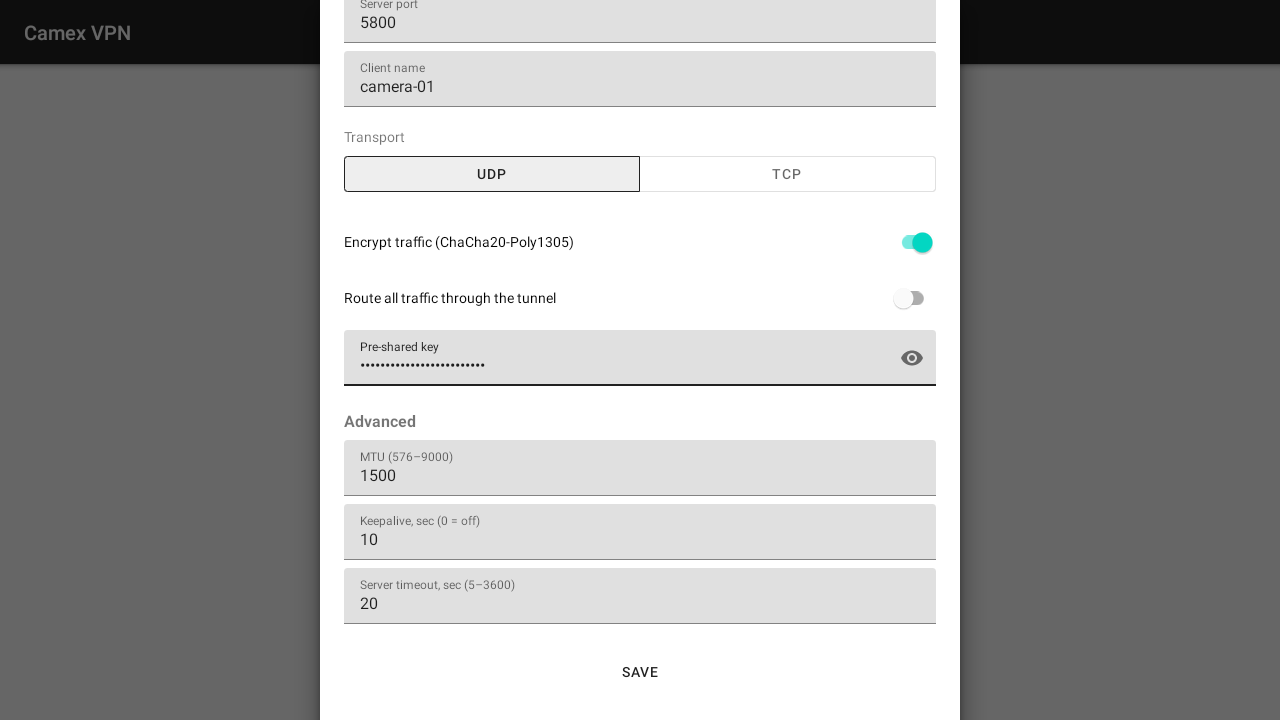
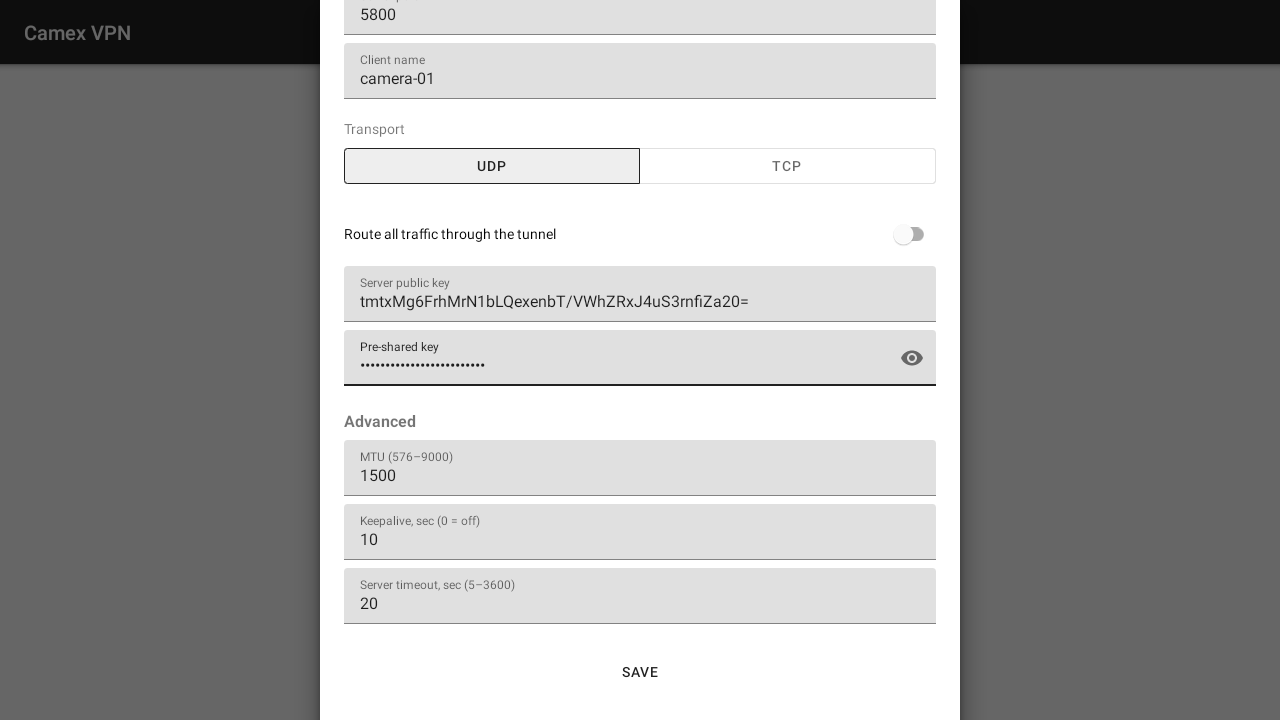
fix(v2): rekey deadline, repeated confirmation, cleanup on failed start and handshakes, no takeover by address; new Android screenshots (#17, #42)
Review fixes:
- A rekey unanswered for 90 s (V2_REKEY_TIMEOUT) makes the client
  reconnect instead of keeping the old keys.
- Until the server answers on a new session the client repeats its
  confirming keepalive every 5 s: one lost datagram no longer leaves an
  idle client on a session the server dropped.
- A failed start wipes the key texts, the derived keys, the key cache and
  the server's config (Android keeps the process).
- A UDP entry with a working session is not reused for a handshake that
  claims another address: that one gets a new entry.
- Every failure after a slot was taken for a handshake frees it.
- docs/images: settings screenshots with the server public key, from the
  #48 APK on the test TV box.

diff --git a/src/server.c b/src/server.c
@@ -725,7 +725,12 @@ static server_client_t *server_entry_for(const char *client_id,
             }
             server_adopt_tcp(by_ip, fd);
             entry = by_ip;
-        } else if (by_addr != NULL) {
+        } else if (by_addr != NULL && (fd >= 0 || !by_addr->cur.valid)) {
+            /* The same connection or address, without a working session:
+             * a client that changed its address. A UDP entry that has one
+             * is not taken over by a handshake for another address (a
+             * forged source plus a replayed message 1 could otherwise cut
+             * that client off): such a handshake gets a new entry. */
             entry = by_addr;
         } else {
             entry = server_alloc_client();
@@ -906,14 +911,9 @@ static int server_handle_init(const uint8_t *buffer, size_t len,
         }
         if (server_build_config(entry, client_id, local_ip, reply,
                                 sizeof(reply)) != 0) {
-            /* No configuration (e.g. the auto pool is full): a slot taken
-             * for this handshake must not stay behind (#15) */
-            if (fresh) {
-                crypto_wipe(entry, sizeof(*entry));
-                entry->tcp_fd = -1;
-            }
+            /* No configuration (e.g. the auto pool is full) */
             noise_wipe(&hs);
-            return -1;
+            goto fail;
         }
     } else {
         snprintf(reply, sizeof(reply), "%s OK VER=%u\n", CAMEX_CTRL_WORD,
@@ -923,12 +923,12 @@ static int server_handle_init(const uint8_t *buffer, size_t len,
     /* Message 2 */
     if (get_random_bytes(e_seed, sizeof(e_seed)) != 0) {
         noise_wipe(&hs);
-        return -1;
+        goto fail;
     }
     server_index = server_new_index();
     if (server_index == 0U) {
         noise_wipe(&hs);
-        return -1;
+        goto fail;
     }
     memcpy(resp, CAMEX_MAGIC, 4);
     resp[4] = V2_TYPE_RESP;
@@ -940,7 +940,7 @@ static int server_handle_init(const uint8_t *buffer, size_t len,
     crypto_wipe(e_seed, sizeof(e_seed));
     if (resp_len == 0U) {
         noise_wipe(&hs);
-        return -1;
+        goto fail;
     }
     noise_split(&hs, c1, c2);
     noise_wipe(&hs);
@@ -965,11 +965,11 @@ static int server_handle_init(const uint8_t *buffer, size_t len,
     if (entry->tcp_fd >= 0) {
         if (net_tcp_send_frame(entry->tcp_fd, resp,
                                V2_RESP_HDR + resp_len) < 0) {
-            return -1;
+            goto fail;
         }
     } else if (net_send_payload(net_fd, from, resp,
                                 V2_RESP_HDR + resp_len) < 0) {
-        return -1;
+        goto fail;
     }
     if (first) {
         if (auto_request) {
@@ -979,6 +979,15 @@ static int server_handle_init(const uint8_t *buffer, size_t len,
         }
     }
     return 0;
+
+fail:
+    /* A slot taken for this handshake must not stay behind (#15); entries
+     * that existed before keep their working sessions */
+    if (fresh) {
+        crypto_wipe(entry, sizeof(*entry));
+        entry->tcp_fd = -1;
+    }
+    return -1;
 }
 
 /* DATA: find the session by the receiver index, open it, forward */

diff --git a/src/client.c b/src/client.c
@@ -194,9 +194,11 @@ static int client_handle_resp(const uint8_t *buffer, size_t len)
 
     client_state.last_recv = g_now;
     client_state.established = 1U;
+    client_state.confirm_pending = 1U;
     reconnect_backoff = 0;
     /* The server sends on a new session only after the first packet on
-     * it: confirm at once */
+     * it: confirm at once (and again in client_tick() until the server
+     * answers on it) */
     {
         uint8_t ka[V2_OVERHEAD];
         size_t ka_len = session_seal(&client_state.cur, NULL, 0U, ka,
@@ -249,6 +251,9 @@ int client_handle_net_packet(const uint8_t *buffer, size_t len)
         return -1;
     }
     client_state.last_recv = g_now;
+    if (s == &client_state.cur) {
+        client_state.confirm_pending = 0U;
+    }
     reconnect_backoff = 0;
     if (plain_len == 0U) {
         return 0;   /* keepalive answer */
@@ -488,6 +493,19 @@ void client_tick(void)
         return;
     }
 
+    /* A rekey that gets no answer while the old session still works
+     * (handshakes blocked, say) must not keep the old keys forever */
+    if (client_state.established && client_state.hs_pending &&
+        difftime(g_now, client_state.hs_started) >= V2_REKEY_TIMEOUT) {
+        log_message(LOG_ERR, "Session renewal got no answer from %s:%d "
+                    "for %ds — reconnecting", current_config.server_host,
+                    current_config.port, V2_REKEY_TIMEOUT);
+        client_link_up = 0U;
+        client_state.last_recv = 0;
+        client_reconnect();
+        return;
+    }
+
     /* Handshake retransmission (a new INIT, new ephemeral key) */
     if (client_state.hs_pending &&
         difftime(g_now, client_state.hs_sent) >= V2_HANDSHAKE_RETRY) {
@@ -511,10 +529,15 @@ void client_tick(void)
 
     /* Keepalive: an empty DATA packet. The interval is capped at half the
      * server timeout, so an idle client never times out between probes;
-     * with --keepalive 0 it is half the server's client timeout. */
+     * with --keepalive 0 it is half the server's client timeout. Until the
+     * server answers on a new session (its confirmation may be lost), one
+     * goes every V2_HANDSHAKE_RETRY seconds: the server drops a session
+     * nobody confirmed after V2_PREV_SESSION_GRACE. */
     if (client_state.cur.valid &&
         difftime(g_now, client_state.last_keepalive) >=
-            (double)client_keepalive_interval()) {
+            (client_state.confirm_pending
+                 ? (double)V2_HANDSHAKE_RETRY
+                 : (double)client_keepalive_interval())) {
         uint8_t packet[V2_OVERHEAD];
         size_t packet_len = session_seal(&client_state.cur, NULL, 0U, packet,
                                          sizeof(packet));

diff --git a/src/camex.c b/src/camex.c
@@ -474,30 +474,35 @@ int camex_init(camex_config_t *config)
     }
 
     /* Protocol v2 is always encrypted (#17) */
-    if (crypto_init(current_config.psk) != 0 || camex_load_v2_keys() != 0) {
-        return -1;
+    {
+        int keys_ok = crypto_init(current_config.psk) == 0 &&
+                      camex_load_v2_keys() == 0;
+
+        if (keys_ok && server_mode && !crypto_get_ctx()->has_server_key) {
+            log_message(LOG_ERR, "The server needs its private key: "
+                        "--server-key-file or server_key= in [server] "
+                        "(create one with --genkey)");
+            keys_ok = 0;
+        }
+        if (keys_ok && client_mode && (!crypto_get_ctx()->has_server_pub ||
+                                       !crypto_get_ctx()->has_global)) {
+            log_message(LOG_ERR, "The client needs --psk and the server's "
+                        "public key (--server-pubkey)");
+            keys_ok = 0;
+        }
+        /* The key texts are not needed any more; on failure the derived
+         * keys go too (on Android the process outlives this start) */
+        crypto_wipe(current_config.psk, sizeof(current_config.psk));
+        crypto_wipe(server_db.globals.psk, sizeof(server_db.globals.psk));
+        crypto_wipe(server_db.globals.server_key,
+                    sizeof(server_db.globals.server_key));
+        if (!keys_ok) {
+            crypto_wipe_ctx();
+            key_cache_clear();
+            crypto_wipe(&server_db, sizeof(server_db));  /* client psk= */
+            return -1;
+        }
     }
-    crypto_wipe(current_config.psk, sizeof(current_config.psk));
-    crypto_wipe(server_db.globals.psk, sizeof(server_db.globals.psk));
-    if (server_mode && !crypto_get_ctx()->has_server_key) {
-        log_message(LOG_ERR, "The server needs its private key: "
-                    "--server-key-file or server_key= in [server] "
-                    "(create one with --genkey)");
-        return -1;
-    }
-    if (client_mode && (!crypto_get_ctx()->has_server_pub ||
-                        !crypto_get_ctx()->has_global)) {
-        log_message(LOG_ERR, "The client needs --psk and the server's "
-                    "public key (--server-pubkey)");
-        return -1;
-    }
-    /* The private key text is not needed any more (and is unused without
-     * encryption) */
-    if (!current_config.encrypt && server_db.globals.server_key[0] != '\0') {
-        log_message(LOG_NOTICE, "server_key= is ignored without encryption");
-    }
-    crypto_wipe(server_db.globals.server_key,
-                sizeof(server_db.globals.server_key));
 
     if (client_mode) {
         if (!current_config.auto_config &&

diff --git a/src/client.h b/src/client.h
@@ -31,6 +31,8 @@ typedef struct {
     time_t last_keepalive;    /* last keepalive sent */
     uint8_t config_received;  /* auto mode: CONFIG applied */
     uint8_t established;      /* a session has been set up since connect */
+    uint8_t confirm_pending;  /* the server has not answered on cur yet:
+                               * keepalives repeat until it does */
 } client_state_t;
 
 extern client_state_t client_state;

diff --git a/src/session.h b/src/session.h
@@ -50,6 +50,7 @@
 #define V2_REJECT_AFTER_MSGS ((uint64_t)1 << 60)
 #define V2_PREV_SESSION_GRACE 30   /* seconds an old session still receives */
 #define V2_HANDSHAKE_RETRY 5       /* seconds between INIT retransmissions */
+#define V2_REKEY_TIMEOUT 90        /* a rekey unanswered this long: reconnect */
 
 typedef struct {
     uint64_t max;
